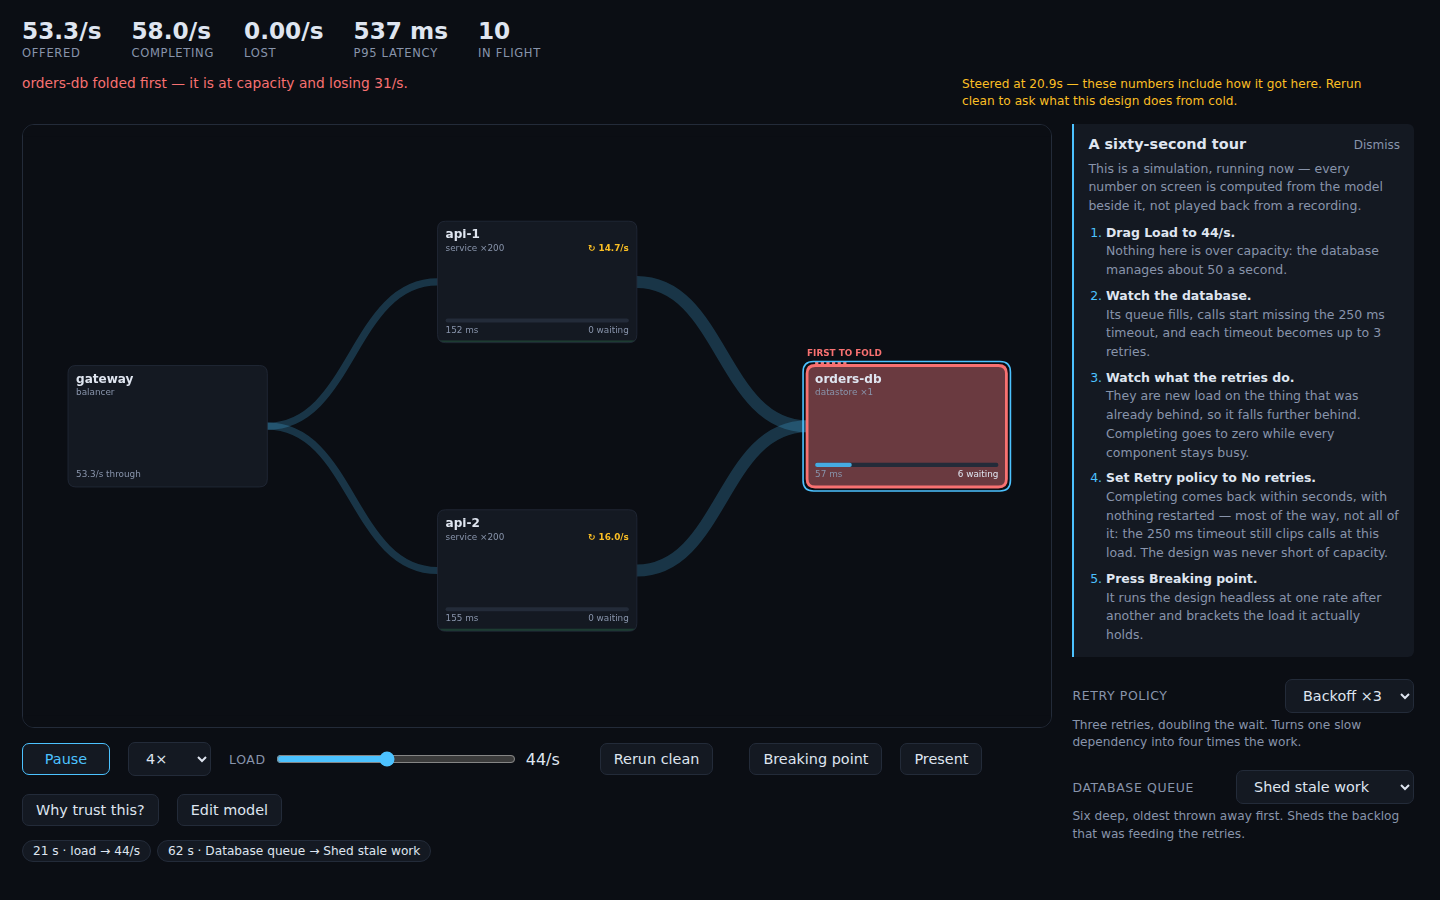
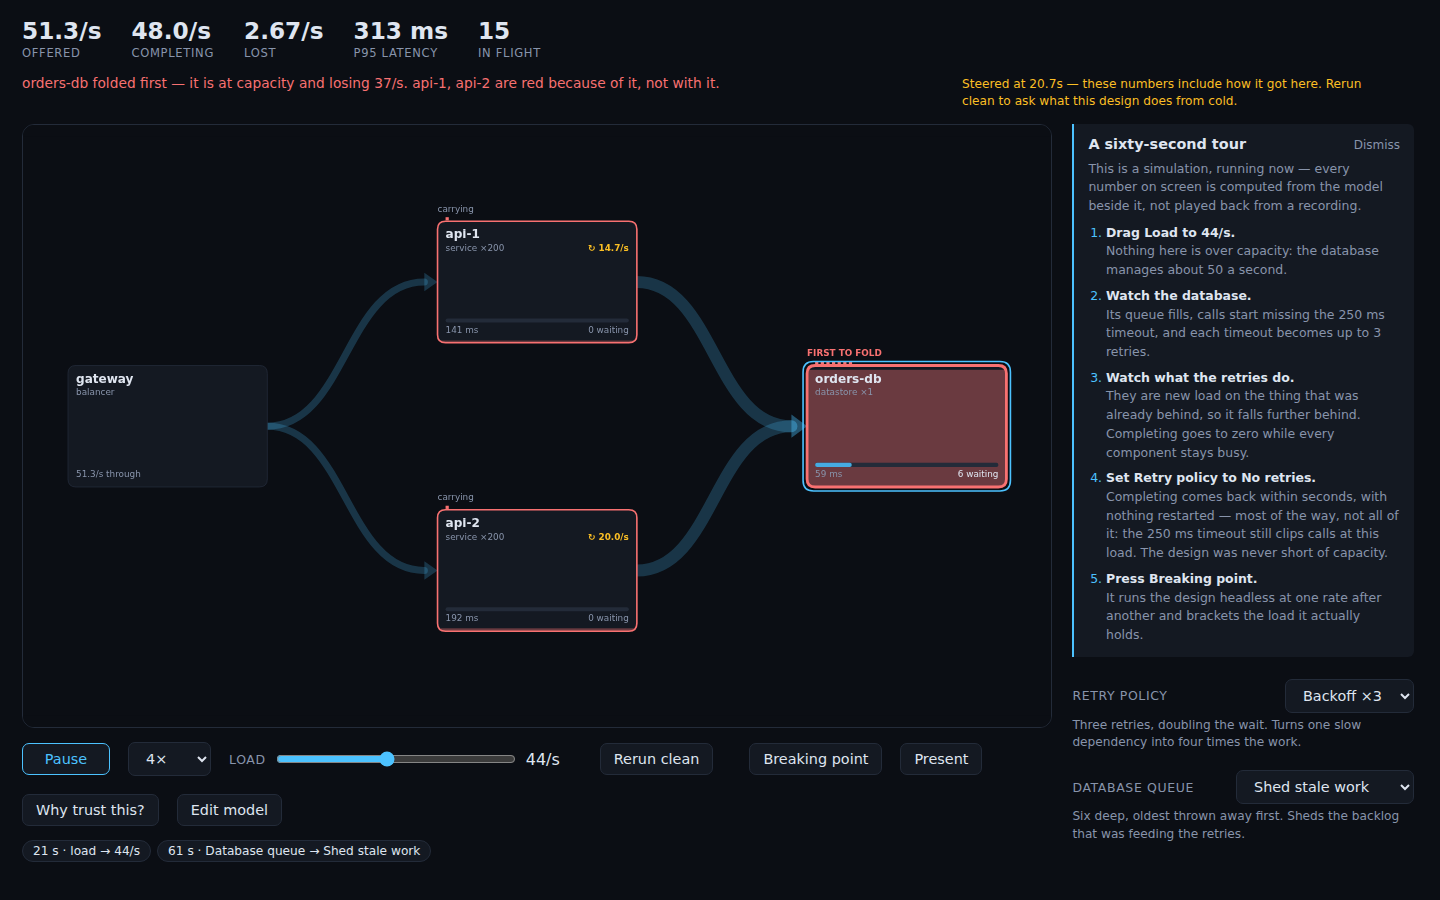
README: add a demo screenshot; recapture the demo frames
The frames predated arrowheads on wires, so all four were recaptured from
the current build.

diff --git a/README.md b/README.md
@@ -12,6 +12,11 @@ design review is trying to settle.
 Everything runs in the browser. The application is a single HTML file whose content-security policy
 blocks every network destination, so a model stays on the machine it was drawn on.
 
+![The demo in a retry storm: load is under the database's capacity, yet nothing completes, and the database is marked as the component that failed first.](docs/demo-2-retry-storm.png)
+
+*The demo at 44 requests a second. The database can handle about fifty, but retries push it over and
+nothing completes. Turning retries off brings it back without a restart.*
+
 ## Try it
 
 ```
